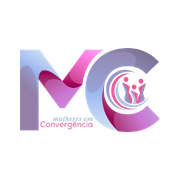
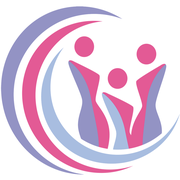
Changes

diff --git a/index.html b/index.html
@@ -34,7 +34,7 @@
     <meta name="twitter:title" content="Mulheres em Convergência | Rede de Empreendedorismo Feminino">
     <meta name="twitter:description" content="Conecte-se à melhor rede de mulheres empreendedoras. Planos de associação, cursos exclusivos e diretório de negócios.">
 
-    <link rel="icon" type="image/x-icon" href="https://storage.googleapis.com/gpt-engineer-file-uploads/xMqvmpcnczQjIZDjBLKG5634zx33/uploads/1758724517526-logo-mec-symbol-cor.png">
+    <link rel="icon" type="image/png" sizes="96x96" href="/favicon.png">
     <meta property="og:image" content="https://storage.googleapis.com/gpt-engineer-file-uploads/xMqvmpcnczQjIZDjBLKG5634zx33/social-images/social-1758724533543-fundo-mec-cor.png">
     <meta name="twitter:image" content="https://storage.googleapis.com/gpt-engineer-file-uploads/xMqvmpcnczQjIZDjBLKG5634zx33/social-images/social-1758724533543-fundo-mec-cor.png">
 

diff --git a/src/components/layout/Favicon.tsx b/src/components/layout/Favicon.tsx
@@ -1,13 +1,12 @@
 
 import { Helmet } from 'react-helmet-async';
-import logoCircular from '@/assets/logo-circular.png';
 
 const Favicon = () => {
-  // Usa o logo circular como favicon (png 32x32). O Vite servirá o asset corretamente.
+  // Mantém os mesmos arquivos locais declarados no HTML para navegadores e buscadores.
   return (
     <Helmet>
-      <link rel="icon" type="image/png" href={logoCircular} />
-      <link rel="apple-touch-icon" href={logoCircular} />
+      <link rel="icon" type="image/png" sizes="96x96" href="/favicon.png" />
+      <link rel="apple-touch-icon" href="/apple-touch-icon-180x180.png" />
     </Helmet>
   );
 };

diff --git a/docs/_active/06-funcionalidades/favicon-mec.md b/docs/_active/06-funcionalidades/favicon-mec.md
@@ -1,0 +1,13 @@
+# Ícone do MeC — 17/10/2026
+
+## Documentação técnica
+- Fonte: símbolo `logo-mec-symbol-cor.png` fornecido pela equipe.
+- `public/favicon.png`: 96×96, múltiplo de 48, com redimensionamento de alta qualidade e proporção preservada.
+- `public/apple-touch-icon-180x180.png`, `public/pwa-192x192.png` e `public/pwa-512x512.png`: mesma identidade para atalhos e aplicativo instalado.
+- `index.html` e `src/components/layout/Favicon.tsx` apontam para o mesmo favicon local; o arquivo antigo `public/favicon.ico` foi removido.
+
+## Operação
+Publicar a alteração para disponibilizar os arquivos no domínio oficial. Conferir `/favicon.png` no domínio e solicitar nova indexação da página inicial no Google Search Console, se houver acesso. O prazo de atualização do Google não é controlado pelo portal.
+
+## Manual simples
+O símbolo do MeC passa a identificar o site nas abas e nos atalhos do celular. Depois de publicar, o Google poderá atualizar o ícone quando visitar o site novamente. Se o navegador ainda mostrar o ícone antigo, atualize a página ou abra uma janela privada.

diff --git a/AGENTS.md b/AGENTS.md
@@ -18,3 +18,4 @@
 - Depoimentos da capa vivem na tabela `depoimentos` (origem rede ou Google, cadastro manual pela equipe) — sem chave de API do Google, a importação é por cópia.
 - Tamanho ideal de imagem é resolvido em `src/lib/dicasImagem.ts` (por chave do catálogo ou pasta) e exibido pelo `CampoImagem` — um só lugar para ajustar.
 - Listagens do painel usam `src/components/painel/BarraLista.tsx` para busca, ordem e filtro — mesmo padrão em todas.
+- Browser icons use stable public paths shared by index.html and Favicon.tsx; remove obsolete favicon.ico to prevent crawlers from selecting stale branding.

diff --git a/CHANGELOG.md b/CHANGELOG.md
@@ -2,6 +2,11 @@
 
 Registro vivo das entregas do portal. Toda entrega adiciona uma linha aqui.
 
+## 17/10/2026 — Ícone MeC para navegadores e Google
+- Símbolo fornecido aplicado em favicon local de 96×96 e ícones Apple/PWA, preservando proporção.
+- Removido o favicon antigo do Lovable; HTML e Helmet usam o mesmo arquivo local.
+- A atualização nos resultados do Google depende da publicação e de nova visita do rastreador.
+
 
 ## 12/10/2026 — Depoimentos, imagens e Editor de páginas unificado
 - Depoimentos gerenciáveis (`/painel-conteudo/depoimentos`) com slider na capa; origem rede ou Google.

diff --git a/roadmap.md b/roadmap.md
@@ -105,6 +105,7 @@ Atualizado: 17/09/2026
 - [ ] Ajustes manuais no Supabase novo: templates do Auth, URLs de redirecionamento, SMTP próprio e limite de envio (`docs/_reboot/19-emails-e-comunicados.md`)
 
 ## Redesign Claude Design
+- [x] Ícone MeC local para navegadores e buscadores (17/10/2026).
 - [x] Fase 1 — cores, fonte e cantos globais
 - [x] Fase 2 — topo e rodapé
 - [x] Fase 3 — nova capa
